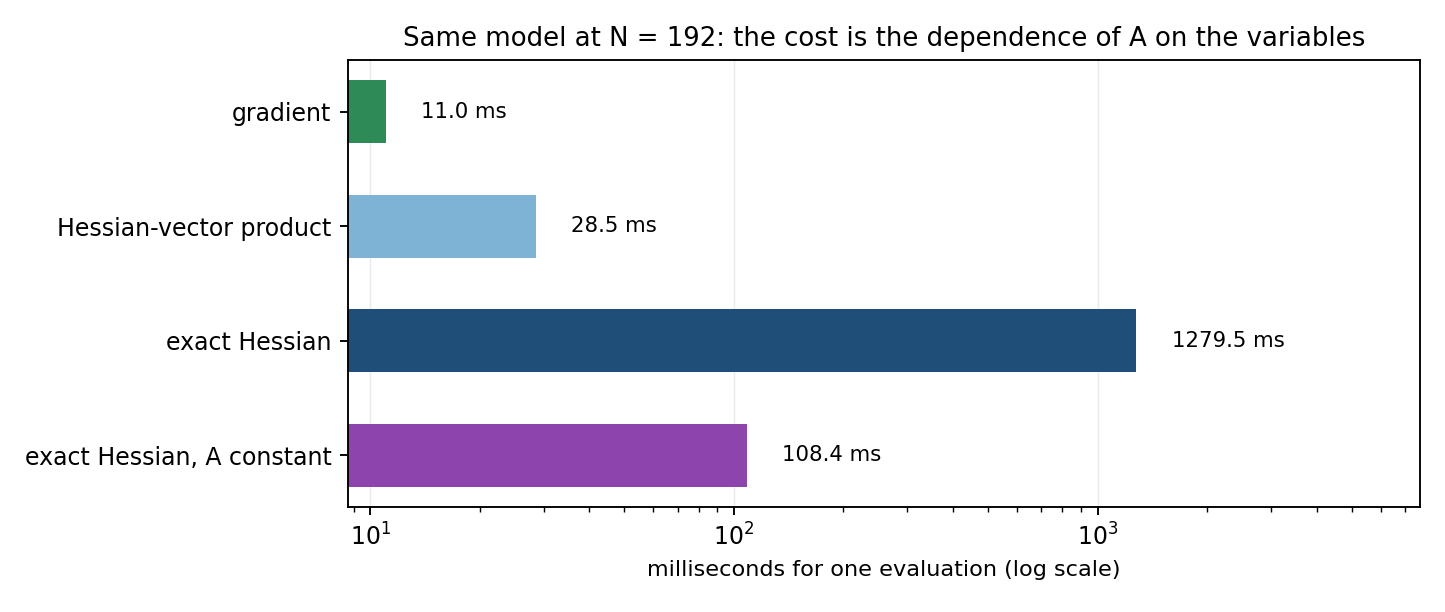
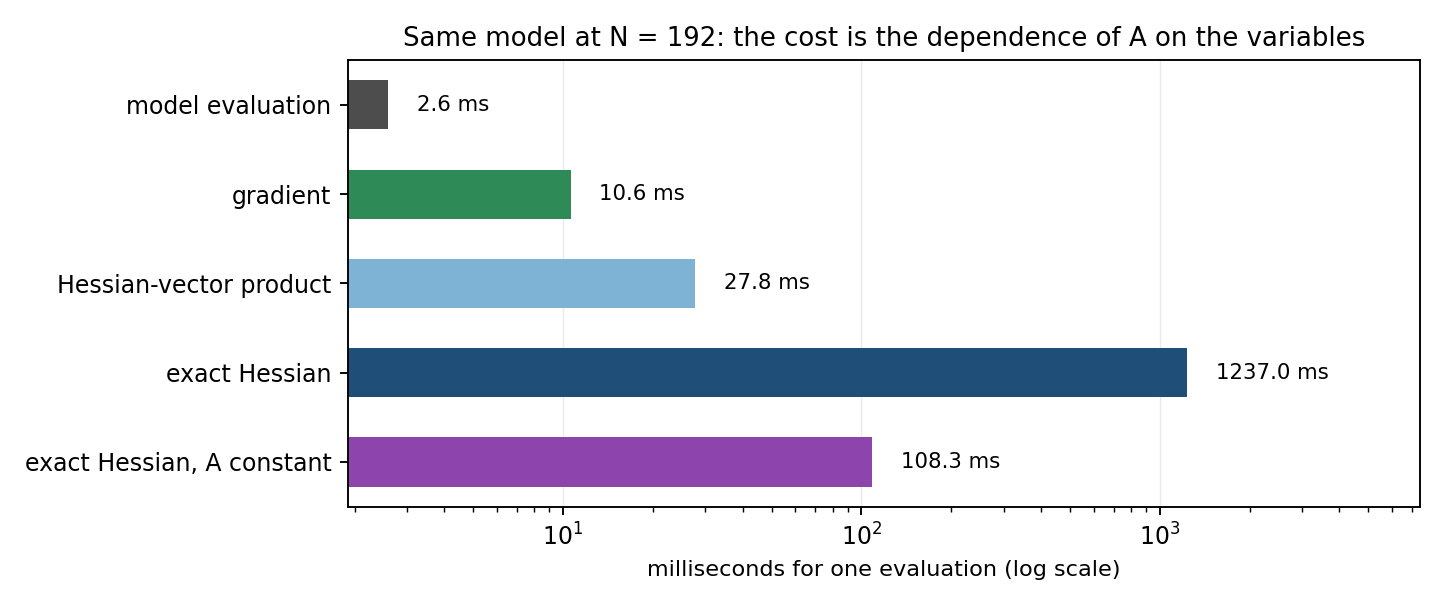
Measure the plain evaluation, and stop extrapolating in the second post
The first post claimed the model was cheap to evaluate without measuring it; the
primal is now in the table and in the figure, which gives the full progression.
The second post said the two layouts cost the same to differentiate, which was
never measured -- what is measured is the size of their derivative graphs.

diff --git a/01-derivative-cost/example.py b/01-derivative-cost/example.py
@@ -89,6 +89,7 @@ objective_ref = cas.sum1(outputs_ref)
 
 # ------------------------------------------------------------------ derivatives
 direction = cas.MX.sym("direction", variables.size1())
+evaluation = cas.Function("outputs_of", [variables], [outputs])
 gradient = cas.Function(
     "gradient_of", [variables], [cas.gradient(objective, variables)]
 )
@@ -112,6 +113,7 @@ hessian_ref = cas.Function(
 point = np.concatenate([design_value, np.full(N, 0.1), [state_value]])
 direction_value = np.random.default_rng(0).standard_normal(variables.size1())
 calls = {
+    "model evaluation": (evaluation, (point,)),
     "gradient": (gradient, (point,)),
     "Hessian-vector product": (hessian_vector, (point, direction_value)),
     "exact Hessian": (hessian, (point,)),
@@ -135,14 +137,15 @@ for name, (function, arguments) in calls.items():
 
 print(
     f"\nAt N = {N}, the exact Hessian costs "
-    f"{results[2][2] / results[3][2]:.1f}x the same model with constant coefficients, "
-    f"and {results[2][2] / results[1][2]:.1f}x its own Hessian-vector product."
+    f"{results[3][2] / results[4][2]:.1f}x the same model with constant coefficients, "
+    f"{results[3][2] / results[0][2]:.0f}x a plain evaluation, and "
+    f"{results[3][2] / results[2][2]:.1f}x its own Hessian-vector product."
 )
 
 # ---------------------------------------------------------------------- figure
 names = [row[0] for row in results]
 times = [row[2] for row in results]
-colors = ["#2e8b57", "#7fb3d5", "#1f4e79", "#8e44ad"]
+colors = ["#4d4d4d", "#2e8b57", "#7fb3d5", "#1f4e79", "#8e44ad"]
 figure, axis = plt.subplots(figsize=(8.5, 3.6))
 axis.barh(np.arange(len(names))[::-1], times, color=colors, height=0.55)
 axis.set_xscale("log")

diff --git a/01-derivative-cost/README.md b/01-derivative-cost/README.md
@@ -25,29 +25,32 @@ the dependence of the coefficients on `x` disappears.
 
 | quantity | graph nodes | one evaluation |
 |---|---:|---:|
+| model evaluation | 82 | 2.6 ms |
 | gradient | 357 | 11 ms |
 | `H·v` | 540 | 28 ms |
-| exact Hessian | 58 073 | **1 280 ms** |
+| exact Hessian | 58 073 | **1 237 ms** |
 | exact Hessian, `A` constant | 54 387 | **108 ms** |
 
-Three things to read from this:
+Four things to read from this:
 
-1. **First order is not the problem.** The gradient costs 11 ms and the
-   Hessian-vector product 28 ms: differentiating through an implicit solve is
-   carried by a linear solve, not by an expanded graph.
-2. **The full Hessian is.** 1 280 ms for a system of 192 unknowns — a hundred times
-   the gradient.
-3. **The dependence of the coefficients is what costs.** Removing it, without
-   removing the solve, divides the Hessian cost by twelve — while the graph keeps
+1. **Evaluating the model is nearly free.** 2.6 ms for the outputs of a dense
+   solve in 192 unknowns.
+2. **First order stays affordable.** The gradient costs 11 ms and a Hessian-vector
+   product 28 ms: first-order differentiation through the solve remains relatively
+   cheap here.
+3. **The full Hessian is not.** 1 237 ms — about a hundred times the gradient, and
+   nearly five hundred times a plain evaluation.
+4. **The dependence of the coefficients is what costs.** Removing it, without
+   removing the solve, divides the Hessian cost by eleven — while the graph keeps
    almost the same size (54 387 against 58 073 nodes). For `A(x) y = b(x)`, a
    constant `A` keeps the `A^-1 b_x` part of the derivative and drops everything
    generated by `A_x` and `A_xx`. Those terms account for most of the additional
    cost here.
 
-The practical reading: if you only need second-order information to guide a
-solver, a directional product is forty times cheaper than the matrix. And if you
-can make part of the matrix independent of the variables — a frozen geometry, a
-precomputed table — do it before looking for a solver trick.
+The practical reading: if second-order information is only there to guide a
+solver, a directional product is forty times cheaper than the matrix. And if part
+of the matrix can be made independent of the variables — a frozen geometry, a
+precomputed table — do that before looking for a solver trick.
 
 ## Scope
 

diff --git a/02-design-control-coupling/README.md b/02-design-control-coupling/README.md
@@ -33,9 +33,10 @@ block and the matrix stays block-structured.
 
 ## What it means
 
-- **The coupling is structural, not numerical.** Both layouts cost the same to
-  differentiate. What changes is the connectivity: every condition is connected to
-  every other one through the shared block.
+- **The coupling is structural, not numerical.** Both layouts produce almost the
+  same derivative graph size — 13 058 against 13 112 nodes. What changes is the
+  connectivity: every condition is connected to every other one through the shared
+  block.
 - **Connectivity is what will matter to a sparse factorisation.** A pattern with
   four wide columns does not factor like a block-diagonal one, even at equal
   nonzero count. This script does not measure that factorisation — it shows the
